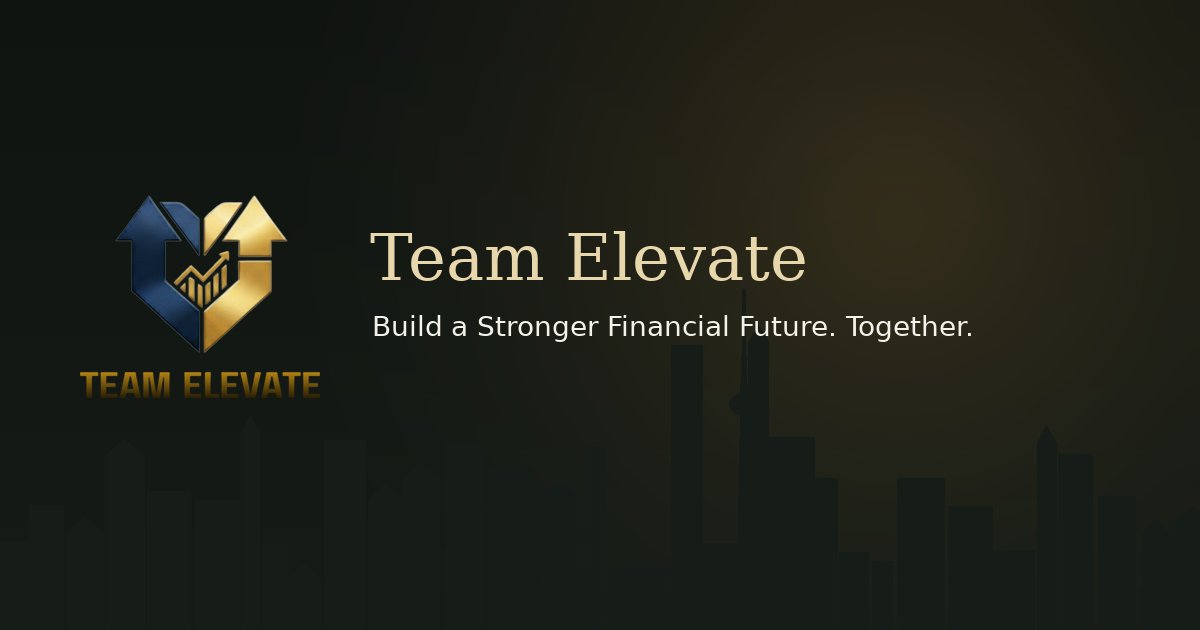
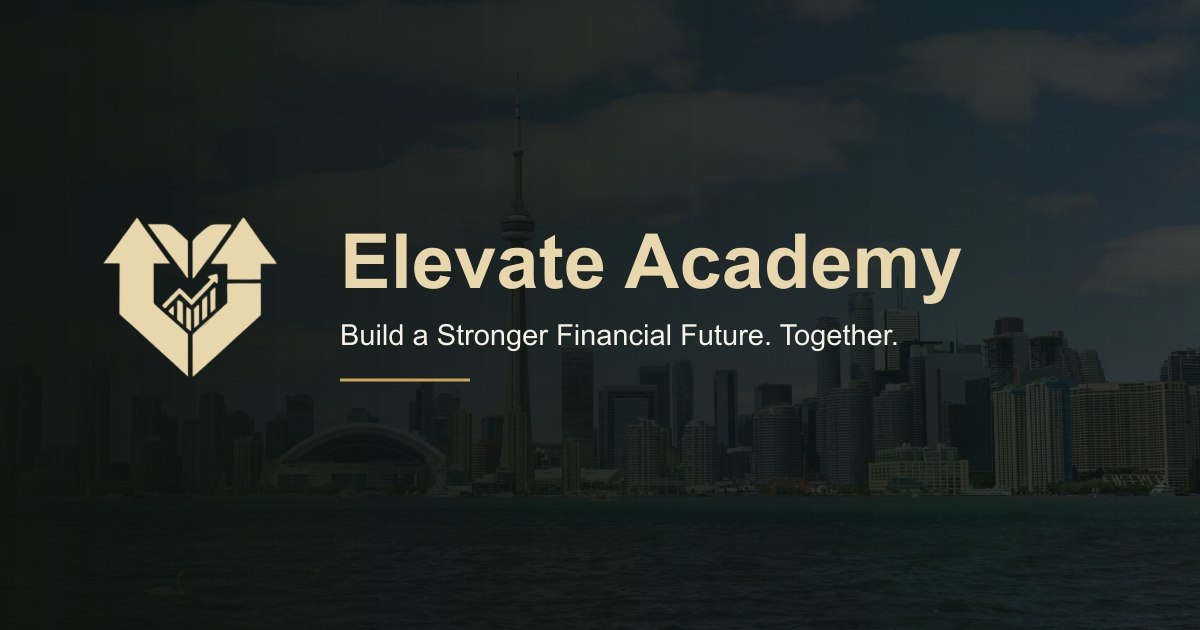
Rename the website to Elevate Academy

diff --git a/app/business-opportunity/page.tsx b/app/business-opportunity/page.tsx
@@ -1,3 +1,4 @@
+import { site } from "@/content/site";
 import { ArrowRight, Award, BadgeDollarSign, CalendarDays, Check, GitBranch, Layers, Repeat, Users } from "lucide-react";
 import { pageMeta } from "@/lib/seo";
 import {
@@ -19,7 +20,7 @@ import { ButtonLink } from "@/components/ui/Button";
 
 export const metadata = pageMeta(
   "Business Opportunity",
-  "Become a licensed financial professional with Team Elevate. Learn about training, the agency model, how compensation works and business ownership.",
+  `Become a licensed financial professional with ${site.name}. Learn about training, the agency model, how compensation works and business ownership.`,
   "/business-opportunity"
 );
 
@@ -58,7 +59,7 @@ export default function OpportunityPage() {
             <p className="eyebrow mb-4">The mindset</p>
             <h2 id="quad-title" className="text-3xl md:text-4xl">From Owning a Job to Owning an Agency</h2>
             <p className="mt-5 text-mist">
-              The cashflow quadrant describes four ways people earn. Team Elevate&apos;s model is designed to help licensed agents move from the
+              The cashflow quadrant describes four ways people earn. {site.name}&apos;s model is designed to help licensed agents move from the
               left side — trading time for income — toward building an agency and, eventually, having money work for them.
             </p>
             <p className="mt-4 text-mist">The path: <strong className="text-cream">government licence → agent → agency</strong>.</p>

diff --git a/components/sections/AboutSection.tsx b/components/sections/AboutSection.tsx
@@ -37,7 +37,7 @@ export function AboutSection({ full = false }: { full?: boolean }) {
           <span className="placeholder-tag absolute left-4 top-4">Stock photo</span>
         </div>
         <div>
-          <p className="eyebrow mb-4">About Team Elevate</p>
+          <p className="eyebrow mb-4">About {site.name}</p>
           <h2 id="about-title" className="text-3xl md:text-5xl">More Than Financial Services. A Vision for Generations.</h2>
           <div className="gold-rule mt-6 w-24" aria-hidden />
           <blockquote className="mt-8 border-l-2 border-gold pl-5 text-xl italic text-gold-light md:text-2xl">
@@ -45,7 +45,7 @@ export function AboutSection({ full = false }: { full?: boolean }) {
           </blockquote>
           <p className="mt-6 text-mist">
             Many families face rising expenses, debt, insufficient savings and the worry of what happens if illness or job loss strikes.
-            Team Elevate exists to help. Working with {site.affiliation.name}, our licensed agents bring banking, insurance and investment
+            {site.name} exists to help. Working with {site.affiliation.name}, our licensed agents bring banking, insurance and investment
             solutions under one roof — and the time to understand what each family actually needs.
           </p>
           {!full && (

diff --git a/app/about/page.tsx b/app/about/page.tsx
@@ -10,7 +10,7 @@ import { ButtonLink } from "@/components/ui/Button";
 
 export const metadata = pageMeta(
   "About Us",
-  "Team Elevate's mission is building financial foundations for families to empower them today and leave a legacy for tomorrow.",
+  `${site.name}'s mission is building financial foundations for families to empower them today and leave a legacy for tomorrow.`,
   "/about"
 );
 
@@ -46,7 +46,7 @@ export default function AboutPage() {
 
       <section className="section" aria-labelledby="exp-title">
         <div className="container-x">
-          <SectionHeading eyebrow="Our affiliation" title={`Powered by ${site.affiliation.name}`} intro="Team Elevate agents are contracted through Experior Financial Group, a managing general agency. In Experior's own words:" />
+          <SectionHeading eyebrow="Our affiliation" title={`Powered by ${site.affiliation.name}`} intro={`${site.name} agents are contracted through Experior Financial Group, a managing general agency. In Experior's own words:`} />
           <ul className="mx-auto mt-12 grid max-w-5xl gap-4 md:grid-cols-2">
             {experiorSummary.map((s) => (
               <li key={s} className="card flex gap-4 p-5 text-sm text-mist"><Building2 className="h-5 w-5 shrink-0 text-gold" aria-hidden />{s}</li>

diff --git a/app/advisers/page.tsx b/app/advisers/page.tsx
@@ -1,14 +1,15 @@
+import { site } from "@/content/site";
 import { pageMeta } from "@/lib/seo";
 import { PageHero } from "@/components/ui/PageHero";
 import { AdviserSection } from "@/components/sections/AdviserSection";
 import { AppointmentSection } from "@/components/sections/AppointmentSection";
 
-export const metadata = pageMeta("Meet Our Advisers", "Meet the licensed professionals behind Team Elevate.", "/advisers");
+export const metadata = pageMeta("Meet Our Advisers", `Meet the licensed professionals behind ${site.name}.`, "/advisers");
 
 export default function AdvisersPage() {
   return (
     <>
-      <PageHero eyebrow="Our Team" title="Meet the People Behind Team Elevate." intro="Get to know the licensed professionals who serve our clients and support our agency." />
+      <PageHero eyebrow="Our Team" title={`Meet the People Behind ${site.name}.`} intro="Get to know the licensed professionals who serve our clients and support our agency." />
       <AdviserSection grid />
       <AppointmentSection />
     </>

diff --git a/content/site.ts b/content/site.ts
@@ -6,12 +6,14 @@
  * invented: if a value is unknown, leave the placeholder in place.
  */
 
+const name = "Elevate Academy";
+
 export const site = {
-  name: "Team Elevate",
+  name,
   tagline: "Elevate Financial Futures",
   url: (process.env.NEXT_PUBLIC_SITE_URL || "https://www.example.com").replace(/\/+$/, ""),
   description:
-    "Team Elevate builds financial foundations for Canadian families and develops licensed financial professionals through the Experior Financial Group agency model.",
+    `${name} builds financial foundations for Canadian families and develops licensed financial professionals through the Experior Financial Group agency model.`,
   mission:
     "Building financial foundations for families to empower them today and leave a legacy for tomorrow.",
   /** Configure via NEXT_PUBLIC_CALENDLY_URL. Never hard-code an invented link. */

diff --git a/components/sections/AdviserSection.tsx b/components/sections/AdviserSection.tsx
@@ -1,4 +1,5 @@
 import { advisers } from "@/content/people";
+import { site } from "@/content/site";
 import { SectionHeading } from "@/components/ui/SectionHeading";
 import { AdviserCard } from "@/components/ui/AdviserCard";
 import { Carousel } from "@/components/ui/Carousel";
@@ -11,7 +12,7 @@ export function AdviserSection({ grid = false }: { grid?: boolean }) {
       <div className="container-x">
         <SectionHeading
           eyebrow="Our Team"
-          title="Meet the People Behind Team Elevate."
+          title={`Meet the People Behind ${site.name}.`}
           intro="Licensed professionals committed to long-term relationships with the families they serve."
         />
         {grid ? (

diff --git a/components/layout/SocialLinks.tsx b/components/layout/SocialLinks.tsx
@@ -16,7 +16,7 @@ export function SocialLinks({ className }: { className?: string }) {
     <ul className={cn("flex gap-3", className)}>
       {entries.map(([k, url]) => (
         <li key={k}>
-          <a href={url} target="_blank" rel="noopener noreferrer" aria-label={`Team Elevate on ${k}`}
+          <a href={url} target="_blank" rel="noopener noreferrer" aria-label={`${site.name} on ${k}`}
              className="grid h-10 w-10 place-items-center rounded-full border border-line text-gold-light transition hover:border-gold hover:bg-gold hover:text-ink">
             <svg viewBox="0 0 24 24" className="h-4 w-4" fill="currentColor" aria-hidden><path d={paths[k]} /></svg>
           </a>

diff --git a/components/layout/Logo.tsx b/components/layout/Logo.tsx
@@ -1,11 +1,12 @@
 import Link from "next/link";
 import { cn } from "@/lib/cn";
+import { site } from "@/content/site";
 
 export function Logo({ size = 48, className }: { size?: number; className?: string }) {
   const icon = `${process.env.NEXT_PUBLIC_BASE_PATH || ""}/icon.svg`;
 
   return (
-    <Link href="/" className={cn("inline-flex shrink-0 items-center transition-colors", className)} aria-label="Team Elevate — home">
+    <Link href="/" className={cn("inline-flex shrink-0 items-center transition-colors", className)} aria-label={`${site.name} — home`}>
       <span
         aria-hidden
         className="block aspect-[307/282] bg-current"

diff --git a/components/sections/ContactSection.tsx b/components/sections/ContactSection.tsx
@@ -39,7 +39,7 @@ export function ContactSection({ headingLevel = "h2" }: { headingLevel?: "h1" | 
               <SiteImage src="/images/site/contact.webp" alt="" fill sizes="(min-width:1024px) 55vw, 100vw" className="object-cover" />
             </div>
             <div className="p-6 md:p-10">
-              <h2 className="text-2xl">Contact Team Elevate</h2>
+              <h2 className="text-2xl">Contact {site.name}</h2>
               {site.contact.emailHref ? (
                 <>
                   <p className="mt-3 text-mist">Please leave account numbers, Social Insurance Numbers and health details out of your email.</p>

diff --git a/app/testimonials/page.tsx b/app/testimonials/page.tsx
@@ -1,10 +1,11 @@
+import { site } from "@/content/site";
 import { pageMeta } from "@/lib/seo";
 import { testimonials } from "@/content/people";
 import { PageHero } from "@/components/ui/PageHero";
 import { TestimonialSlider } from "@/components/sections/TestimonialSlider";
 import { Quote } from "lucide-react";
 
-export const metadata = pageMeta("Testimonials", "Stories of trust from people who work with Team Elevate.", "/testimonials");
+export const metadata = pageMeta("Testimonials", `Stories of trust from people who work with ${site.name}.`, "/testimonials");
 
 export default function TestimonialsPage() {
   return (

diff --git a/app/book-appointment/page.tsx b/app/book-appointment/page.tsx
@@ -1,7 +1,8 @@
+import { site } from "@/content/site";
 import { pageMeta } from "@/lib/seo";
 import { AppointmentSection } from "@/components/sections/AppointmentSection";
 
-export const metadata = pageMeta("Book an Appointment", "Schedule a conversation with a Team Elevate team member at a time that works for you.", "/book-appointment");
+export const metadata = pageMeta("Book an Appointment", `Schedule a conversation with an ${site.name} team member at a time that works for you.`, "/book-appointment");
 
 export default function BookPage() {
   return (

diff --git a/app/contact/page.tsx b/app/contact/page.tsx
@@ -1,7 +1,8 @@
+import { site } from "@/content/site";
 import { pageMeta } from "@/lib/seo";
 import { ContactSection } from "@/components/sections/ContactSection";
 
-export const metadata = pageMeta("Contact Us", "Get in touch with Team Elevate about financial solutions or the business opportunity.", "/contact");
+export const metadata = pageMeta("Contact Us", `Get in touch with ${site.name} about financial solutions or the business opportunity.`, "/contact");
 
 export default function ContactPage() {
   return (
